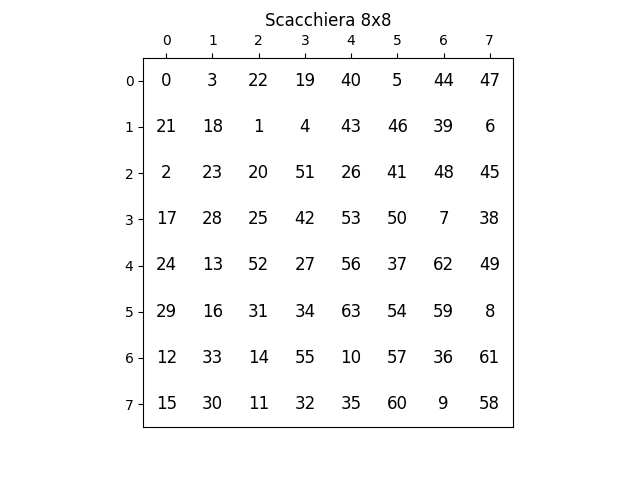
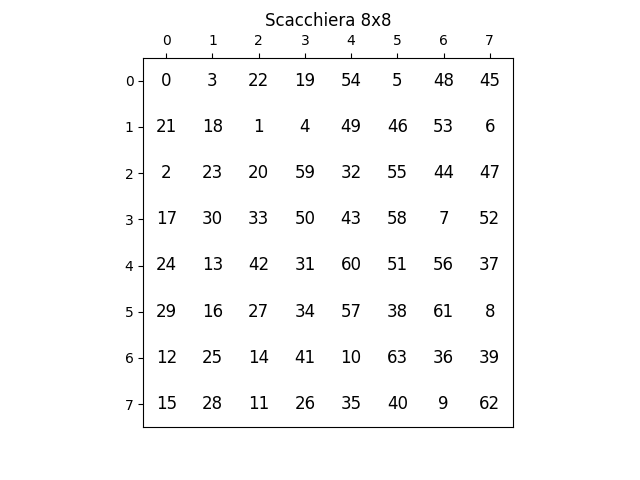
updated backtracking and added esCavallo.py

diff --git a/esCavallo.py b/esCavallo.py
@@ -1,0 +1,94 @@
+import sys
+import time
+import numpy as np
+import matplotlib.pylab as plt
+sys.setrecursionlimit(20000)
+
+def cerca_percorso(n):
+    iterazioni = 0
+    def euristica(mossa, scacchiera):
+        x, y = mossa
+        combinazioni = [(2,1),(2,-1),(-2,1),(-2,-1),(1,2),(-1,2),(1,-2),(-1,-2)]
+        mosse_valide = [(x+px, y+py) for px, py in combinazioni if 0 <= x+px < n and 0 <= y+py < n and scacchiera[y+py][x+px] == 0]
+        score = len(mosse_valide)
+        # Aggiungi un bonus per le mosse che portano verso il centro della scacchiera
+        distanza_centro = abs(n/2 - x) + abs(n/2 - y)
+        score -= distanza_centro / n  # Normalizza la distanza per il numero di celle
+        return score
+
+    def ricorsiva(n,combinazioni,scacchiera,sol,x=0,y=0,i=0):
+        if i == n*n-1:
+            #print(sol, len(sol))
+            return True
+        combinazioni.sort(key=lambda mossa: euristica((x+mossa[0], y+mossa[1]), scacchiera))  # Ordina le mosse
+        for px,py in combinazioni:
+            px += x
+            py += y
+            if px >= 0 and px < n and py >= 0 and py < n and scacchiera[py][px] == 0:
+                scacchiera[py][px]=1
+                sol.append((px,py,i+1))
+                if ricorsiva(n,combinazioni,scacchiera,sol,px,py,i+1):
+                    return True
+                sol.pop()
+                scacchiera[py][px]=0
+        return False
+    
+    scacchiera = [[0 for _ in range(n)] for _ in range(n)]
+    scacchiera[0][0] = 1
+    sol = [(0,0,0)]
+    combinazioni = [(2,1),(2,-1),(-2,1),(-2,-1),(1,2),(-1,2),(1,-2),(-1,-2)]
+    t = ricorsiva(n,combinazioni,scacchiera,sol)
+    return sol,t,iterazioni
+
+def verifica_matrice(matrice):
+    n = len(matrice)
+    numeri_visti = set()
+    for riga in matrice:
+        for numero in riga:
+            if numero in numeri_visti or numero < 0 or numero >= n*n:
+                return False
+            numeri_visti.add(numero)
+    return True
+
+def salva_matrice_come_immagine(M):
+    M_np = np.array(M)
+
+    background = np.ones(M_np.shape)
+
+    plt.figure()
+    plt.matshow(background, fignum=0, cmap='binary')  # Mostra la matrice di sfondo
+
+    # Calcola la dimensione del testo in base alla dimensione della matrice
+    fontsize = max(20 - M_np.shape[0], 5)
+
+    for x in range(M_np.shape[0]):
+        for y in range(M_np.shape[1]):
+            plt.text(y, x, str(M_np[x, y]), ha='center', va='center', color='black', fontsize=fontsize)
+
+    plt.xlim(-0.5,i-0.5)
+    plt.ylim(-0.5,i-0.5)
+    plt.gca().xaxis.tick_top()
+    plt.gca().invert_yaxis()
+    plt.title('Scacchiera ' + str(i) + 'x' + str(i))
+    plt.savefig('esImages/' + str(i) + '.png')
+
+    plt.close()
+
+if __name__ == '__main__':
+
+    for i in range (2,101):
+        print("Test metodo per i = " + str(i))
+        start = time.time()
+        soluzione,t,iterazioni = cerca_percorso(i)
+        end = time.time()
+        print(end-start)
+        print("Trovato per i = " + str(i) + " " + str(t))
+        M = [[-1 for _ in range(i)] for _ in range(i)]
+        for e in soluzione:
+            M[e[1]][e[0]] = e[2]
+        vm = verifica_matrice(M)
+        print("Matrice verificata: " + str(vm))
+        print()
+        
+        if t and i < 10:
+            salva_matrice_come_immagine(M)

diff --git a/backtrackingMethods.py b/backtrackingMethods.py
@@ -89,24 +89,9 @@ def cerca_percorso(n):
     t = ricorsiva(n,combinazioni,scacchiera,sol)
     return sol,t
 
-def print_matrix(M):
-    for riga in M:
-        for colonna in riga:
-            print(colonna,end="\t")
-        print()
-
-
 if __name__ == '__main__':
-    n = 132
-    # M = [[0 for _ in range(n)] for _ in range(n)]
-    # soluzione = cerca_percorso(n)
-    # for e in soluzione:
-    #     M[e[1]][e[0]] = e[2]
-    # print_matrix(M)
 
-
-
-    for i in range (2,26):
+    for i in range (7,8):
         if i == 28 or i == 59 or i == 65 or i == 82 or i == 90 or i == 93 or i == 102 or i == 117 or i == 121 or i == 123 or i == 125: continue
         print("Test metodo per i = " + str(i))
         start = time.time()
